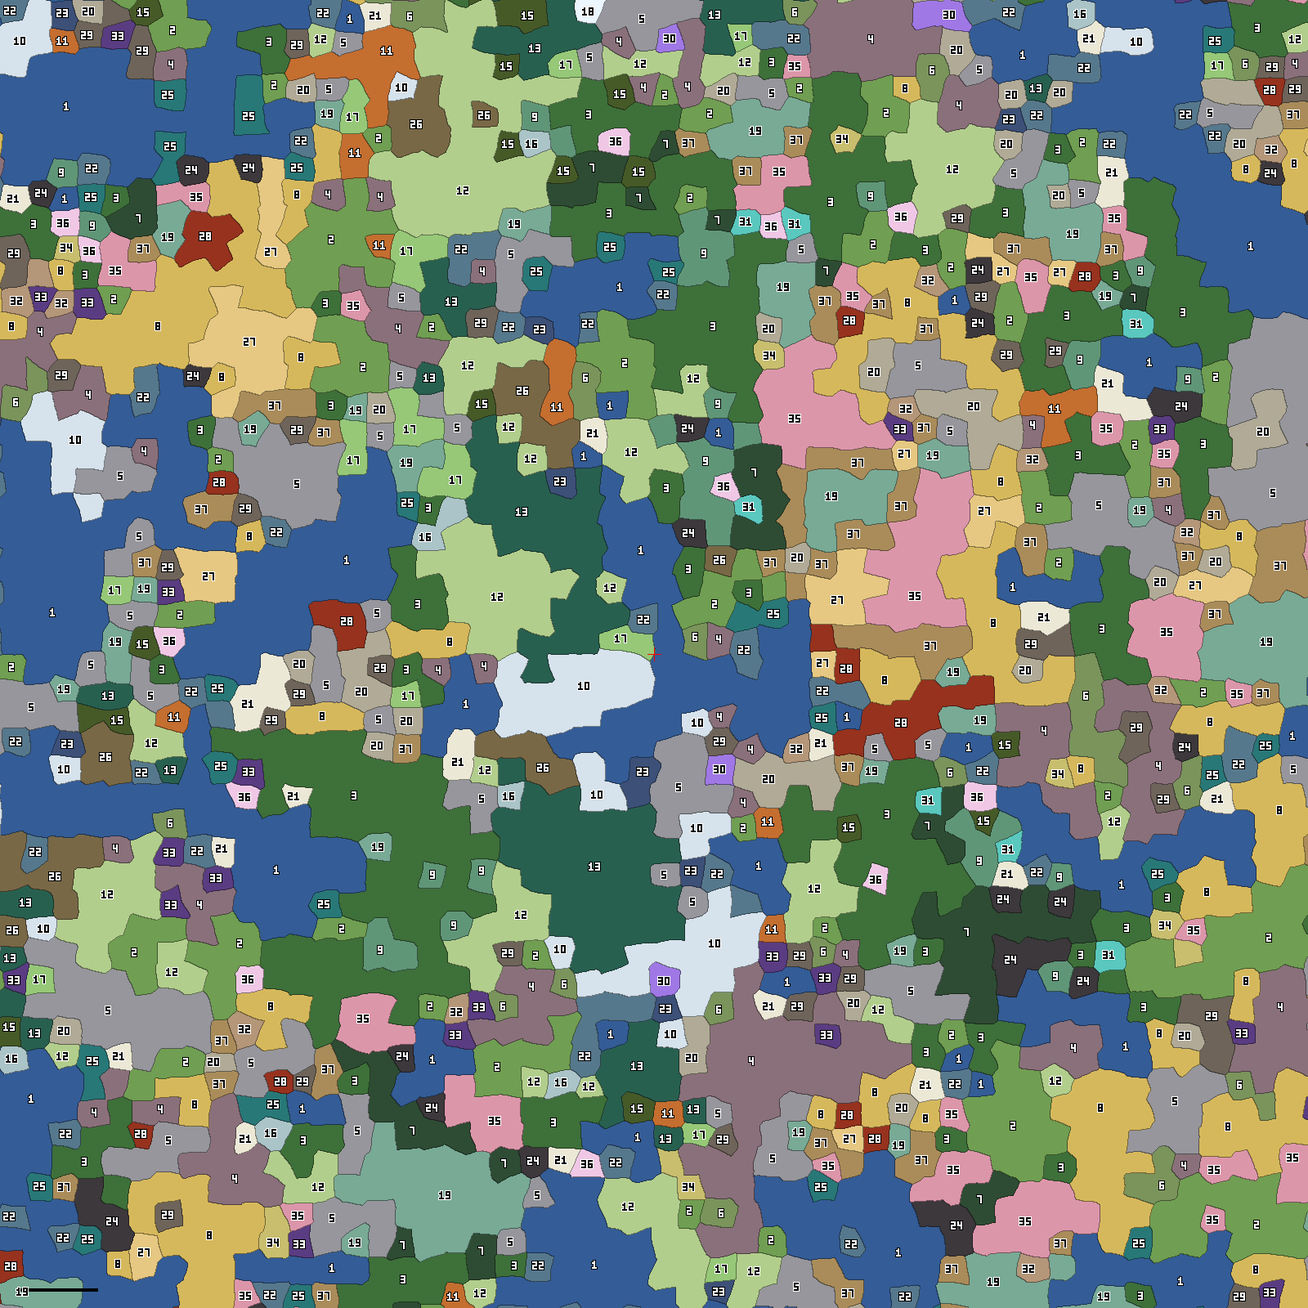
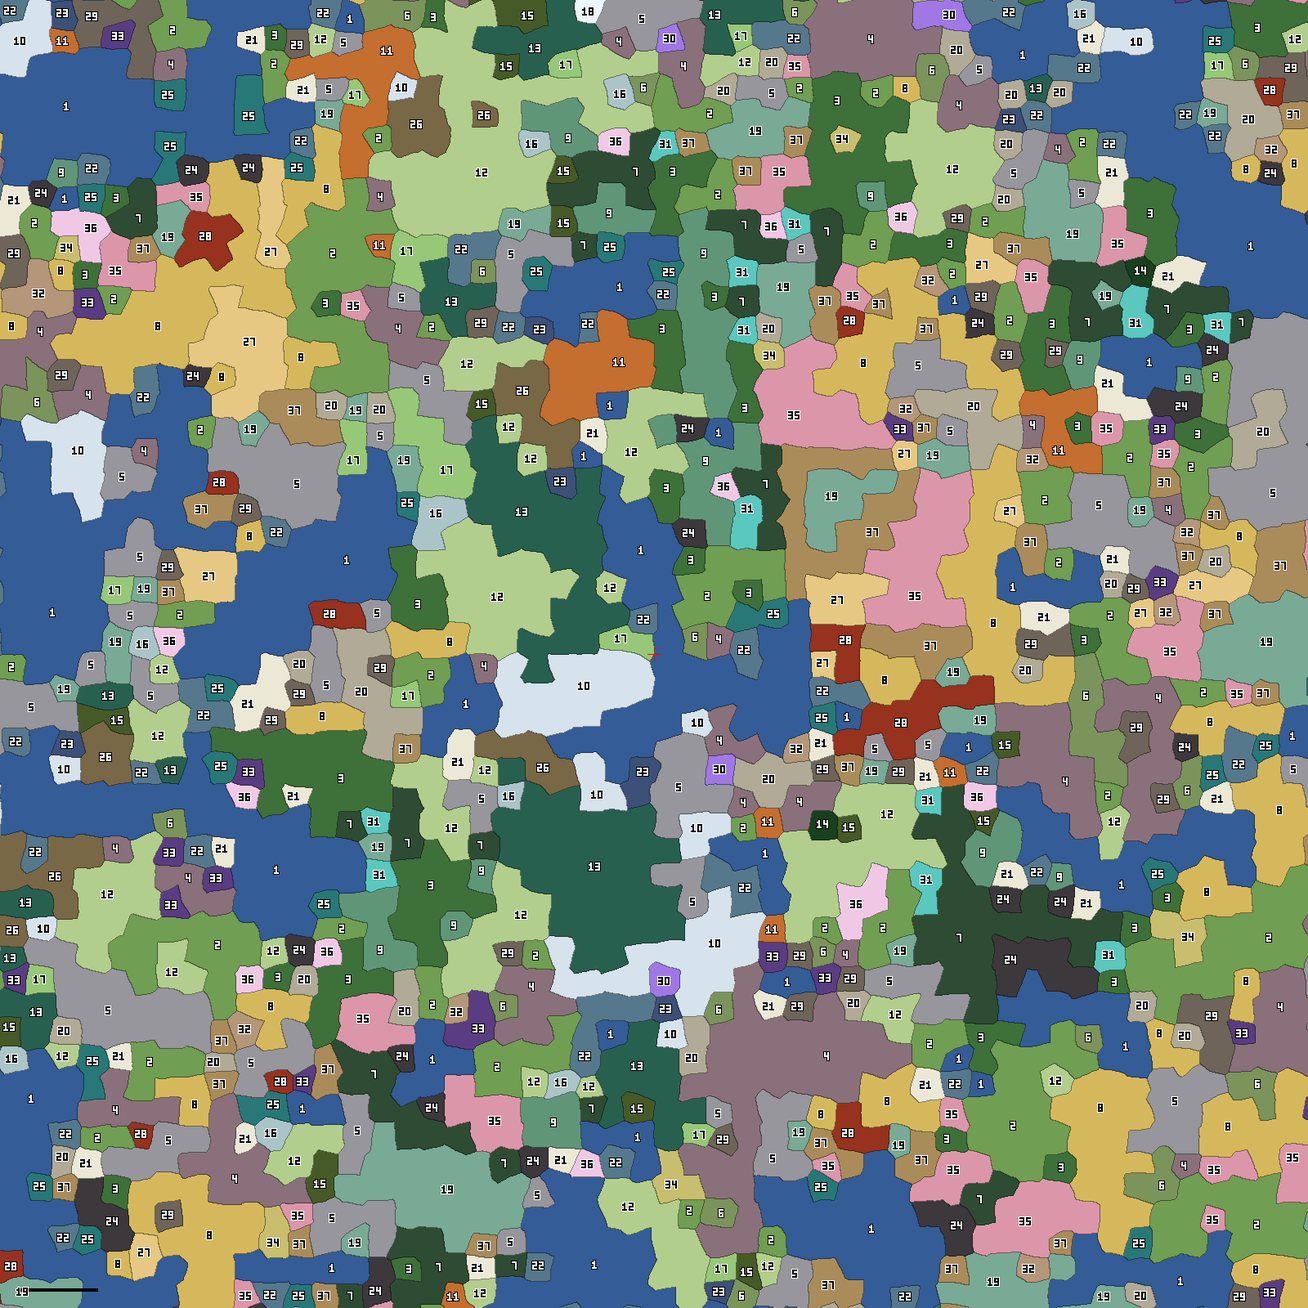
M6a: start new worlds on land, window-independent tests, snapshot update, regenerated land document
Claude-Session: https://claude.ai/code/session_016odTAzJ54PVaB5YPzYTuBq

diff --git a/tests/cases/31-natural-surface.test.js b/tests/cases/31-natural-surface.test.js
@@ -20,7 +20,8 @@ const o={},q={};
   info('mountain columns',mt,'; highest',top,'; with a step of 4 or more',(100*steep/mt).toFixed(2)+'%');
   assert(top>420,'the ranges still rise to high peaks');assert(steep/mt<0.01,'mountain slopes are climbable, with cliffs only in places');}
 // barrows: only on the Barrow Hills, mostly in clusters, facing several ways, in several sizes, some broken open
-{const bs=[];for(let a=-120;a<120;a++)for(let b=-120;b<120;b++){const s=barrowAt(a,b);if(s)bs.push(s);}
+// around the nearest Barrow Hills (an uncommon land since M6a)
+{const bs=[],nb=nearestLand(LAND_I.barrow,0,0,40),ca=Math.floor(nb.X/CS),cb=Math.floor(nb.Z/CS);for(let a=ca-120;a<ca+120;a++)for(let b=cb-120;b<cb+120;b++){const s=barrowAt(a,b);if(s)bs.push(s);}
   const rot=new Set(bs.filter(s=>!s.ring).map(s=>s.rot)),sz=bs.map(s=>s.sz),near=bs.filter(s=>bs.some(t=>t!==s&&Math.hypot(t.X-s.X,t.Z-s.Z)<70)).length;
   let off=0;for(const s of bs){colInfo(s.X,s.Z,o);if(!(o.b===7||(o.bw>0.35&&o.dw>0.35)))off++;}
   info('barrows and rings in 240 x 240 chunks',bs.length,'; rings',bs.filter(s=>s.ring).length,'; facings',rot.size,'; sizes',Math.min(...sz).toFixed(2),'to',Math.max(...sz).toFixed(2),'; broken open',bs.filter(s=>s.broken&&!s.ring).length,'; with a neighbour within 70 blocks',near,'; off the downs',off);
@@ -32,8 +33,8 @@ const o={},q={};
     const p=s.g-ring/8;if(p<-1)hollow++;if(s.kind!=='keep'){prom+=p;pn++;}}
   info('sites',n,'; in a hollow',hollow,'; mean rise of towers and castles over the land around them',(prom/Math.max(1,pn)).toFixed(1),'blocks');
   assert(hollow===0,'no site stands in a hollow');assert(prom/Math.max(1,pn)>2,'towers and castles stand on high ground');}
-// trees gather in groves: the spawn window's trunks by grove field
-{while(genQ.length)processGenQ();const TR=new Set([LOG,BIRCH,SPRUCE,JLOG]);let inG=0,inGc=0,outG=0,outGc=0;
+// trees gather in groves: trunks by grove field in a window on the nearest Green Hills (woods are thick throughout)
+{const ne=nearestLand(LAND_I.green,PL.x+OX,PL.z+OZ,40);regenerateAll(ne.X,ne.Z);while(genQ.length)processGenQ();const TR=new Set([LOG,BIRCH,SPRUCE,JLOG]);let inG=0,inGc=0,outG=0,outGc=0;
   for(let z=0;z<D;z++)for(let x=0;x<W;x++){const g=ground[x+W*z],b=biome[x+W*z];if(![2,3,4,6,10].includes(b))continue;const G=fbm2((x+OX)/70,(z+OZ)/70,2,4801.3),t=TR.has(world[I(x,g+1,z)])?1:0;
     if(G>0.25){inG+=t;inGc++;}else if(G<-0.2){outG+=t;outGc++;}}
   info('trunks per 1000 columns of open land: in groves',(1000*inG/Math.max(1,inGc)).toFixed(1),'; in clearings',(1000*outG/Math.max(1,outGc)).toFixed(1));

diff --git a/tests/cases/05-underground.test.js b/tests/cases/05-underground.test.js
@@ -2,10 +2,11 @@
 // Targets: very little standing water underground, and few cave openings at the surface.
 while(genQ.length)processGenQ();
 let runs=0,changes=0;for(let line=0;line<8;line++){const Z=line*1500-6000;let prev=-1;for(let X=-8000;X<8000;X+=4){const b=colInfo(X,Z,{}).b;if(prev>=0&&b!==prev)changes++;prev=b;}}info("mean biome stretch along a line (blocks)",Math.round(8*16000/(changes+1)));
-let wat=0,air=0,open=0,cols=0;
-for(let z=0;z<D;z++)for(let x=0;x<W;x++){const g=ground[x+W*z];if(g<SEA+1)continue;cols++;let o=false;for(let k=1;k<=5;k++){if(world[I(x,g-k,z)]===AIR){o=true;break;}}if(o)open++;
+let wat=0,air=0,open=0,cols=0,gorge=0;const TGo={};
+// gorge columns (M6a) are open on purpose and counted apart
+for(let z=0;z<D;z++)for(let x=0;x<W;x++){const g=ground[x+W*z];if(g<SEA+1)continue;if(colInfo(x+OX,z+OZ,TGo).rvBot<999){gorge++;continue;}cols++;let o=false;for(let k=1;k<=5;k++){if(world[I(x,g-k,z)]===AIR){o=true;break;}}if(o)open++;
   for(let y=12;y<g-12;y++){const v=world[I(x,y,z)];if(v===WATER)wat++;else if(v===AIR)air++;}}
-info("underground water as share of open cave space",(100*wat/(wat+air)).toFixed(1)+"%","; land columns with a cave opening within 5 blocks of the surface",(100*open/cols).toFixed(2)+"%");
+info("underground water as share of open cave space",(100*wat/(wat+air)).toFixed(1)+"%","; land columns with a cave opening within 5 blocks of the surface",(100*open/cols).toFixed(2)+"%","; gorge columns",gorge);
 
 // Standing water lies in sound basins (D-024): water or solid under and beside every block of it, and each solid holding it rests on something
 const WD=W*D,held=j=>world[j]===WATER||SOLID[world[j]],rests=j=>held(j-WD);

diff --git a/tests/cases/33-survival-systems.test.js b/tests/cases/33-survival-systems.test.js
@@ -73,7 +73,7 @@ const cooked=[334,335,336,337].every(id=>RECIPES.some(r=>r[0]===id&&r[3]==='f')&
 assert(cooked&&FOOD[335]===9,'four dishes cook at a furnace and feed more than raw food (pottage 9)');
 // ---- foraging: wild bilberries, mushrooms and turnips in the generated world
 const cnt={[BERRYB]:0,[MUSHB]:0,[WTURN]:0},by={};let cols=0;
-for(const [X,Z] of [[0,0],[1600,-900],[-1400,1300]]){regenerateAll(X,Z);while(genQ.length)processGenQ();
+for(const k of ['elder','moors','green']){const c=nearestLand(LAND_I[k],0,0,40);regenerateAll(c.X,c.Z); // windows on the woods, the moors and open countrywhile(genQ.length)processGenQ();
   for(let z=0;z<D;z++)for(let x=0;x<W;x++){const g=ground[x+W*z],id=world[I(x,g+1,z)];cols++;if(cnt[id]!==undefined){cnt[id]++;const b=BIOMES[biome[x+W*z]];by[b]=(by[b]||0)+1;}}}
 info('forage in',cols,'columns: bilberry bushes',cnt[BERRYB],'brown mushrooms',cnt[MUSHB],'wild turnips',cnt[WTURN],'; by land',JSON.stringify(by));
 assert(cnt[BERRYB]>0&&cnt[MUSHB]>0&&cnt[WTURN]>0,'bilberries, mushrooms and wild turnips grow in the world');

diff --git a/docs/LANDS.md b/docs/LANDS.md
@@ -33,48 +33,48 @@ Share: of all land on the map (for sea lands, of the whole map). Regions: lands 
 | # | Land | Family | Tier | Warmth | Damp | Relief | Shown as until built | Signature landmark | Signature feature | Share | Regions (median side) |
 |---|---|---|---|---|---|---|---|---|---|---|---|
 | 1 | The Western Sea | Old lands | common | cold to hot | sea | open sea | built | a wreck on the shoals | sea stacks | 17.7% | 24 (641) |
-| 2 | Green Hills | Old lands | common | cool to warm | middling | low, hills | built | an earthwork hill fort | a lone great oak on a knoll | 7.4% | 38 (447) |
-| 3 | Elder Wood | Old lands | common | temperate to warm | middling to wet | low, hills | built | a moss-grown woodland shrine | a hollow elder you can walk into | 13.3% | 43 (463) |
-| 4 | Heath Moors | Old lands | common | cool to temperate | dry to middling | low, hills | built | a watch cairn on a tor | granite tors | 7.4% | 31 (345) |
-| 5 | High Mountains | Old lands | common | cold to warm | dry to wet | high | built | a gatehouse in a high pass | a high tarn under the peaks | 9.0% | 43 (443) |
-| 6 | Barrow Hills | Old lands | uncommon | cool to temperate | dry to middling | low, hills | built | a great chambered barrow | long rows of standing stones | 1.6% | 16 (373) |
-| 7 | Shadowed Forest | Old lands | uncommon | temperate to hot | wet | low, hills | built | a temple sunk among the roots | a fallen giant spanning a hollow | 2.6% | 15 (435) |
-| 8 | Golden Steppe (was Windswept Plains) | Dry and fiery (M6e) | common | temperate to hot | dry | low, hills | Windswept Plains | a ring of horse stones | a lone rock outcrop over the grass | 8.8% | 27 (542) |
-| 9 | Willow Vales (was Fens) | Forests (M6b) | common | temperate to warm | wet | low | Fens | a stilt house over the water | willow-ringed pools with islets | 1.8% | 18 (343) |
-| 10 | Frozen Tundra (was Northern Fells) | Highlands and cold (M6c) | common | cold | dry to middling | low, hills | Northern Fells | a frozen longhouse | frost mounds and ice wedges | 2.8% | 12 (431) |
-| 11 | Autumn Woods | Forests (M6b) | common | cool to temperate | middling | low, hills | Elder Wood | a woodcutters' lodge | a red-leaf glade around a still pond | 1.2% | 10 (351) |
-| 12 | Birch Glades | Forests (M6b) | common | cool to temperate | middling to wet | low, hills | Elder Wood | a birch-bark shrine | a ring of white birches round a clearing | 7.6% | 24 (524) |
-| 13 | Pine Highlands | Forests (M6b) | common | cold to cool | middling to wet | hills, high | Northern Fells | a timber watch post | a lookout rock above the pines | 4.8% | 10 (437) |
-| 14 | Ancient Giant Wood | Forests (M6b) | rare | temperate to warm | wet | low | Elder Wood | a platform ruin high in a giant tree | a giant tree over forty blocks tall | 0.0% | 0 (0) |
-| 15 | Yew Wood | Forests (M6b) | uncommon | cool to temperate | middling to wet | low, hills | Shadowed Forest | a ruined archers' hall | an ancient hollow yew | 0.8% | 12 (324) |
-| 16 | Silverwood | Forests (M6b) | uncommon | cool to temperate | middling to wet | low, hills | Elder Wood | a moon-gate arch | a silver-leaf grove round a spring | 0.4% | 5 (331) |
-| 17 | Alpine Meadows | Highlands and cold (M6c) | uncommon | cold to temperate | middling to wet | high | High Mountains | a shepherd's hut on the high pasture | a meadow tarn under a peak | 1.2% | 14 (353) |
+| 2 | Green Hills | Old lands | common | cool to warm | middling | low, hills | built | an earthwork hill fort | a lone great oak on a knoll | 9.1% | 41 (465) |
+| 3 | Elder Wood | Old lands | common | temperate to warm | middling to wet | low | built | a moss-grown woodland shrine | a hollow elder you can walk into | 5.6% | 32 (356) |
+| 4 | Heath Moors | Old lands | common | cool to temperate | dry to middling | low, hills | built | a watch cairn on a tor | granite tors | 7.2% | 26 (525) |
+| 5 | High Mountains | Old lands | common | cold to warm | dry to wet | high | built | a gatehouse in a high pass | a high tarn under the peaks | 8.8% | 38 (530) |
+| 6 | Barrow Hills | Old lands | uncommon | cool to temperate | dry to middling | low, hills | built | a great chambered barrow | long rows of standing stones | 1.7% | 16 (354) |
+| 7 | Shadowed Forest | Old lands | uncommon | temperate to hot | wet | low, hills | built | a temple sunk among the roots | a fallen giant spanning a hollow | 4.2% | 19 (549) |
+| 8 | Golden Steppe (was Windswept Plains) | Dry and fiery (M6e) | common | temperate to hot | dry | low, hills | Windswept Plains | a ring of horse stones | a lone rock outcrop over the grass | 9.0% | 24 (559) |
+| 9 | Willow Vales (was Fens) | Forests (M6b) | common | temperate to warm | wet | low | Fens | a stilt house over the water | willow-ringed pools with islets | 2.7% | 14 (640) |
+| 10 | Frozen Tundra (was Northern Fells) | Highlands and cold (M6c) | common | cold | dry to middling | low, hills | Northern Fells | a frozen longhouse | frost mounds and ice wedges | 2.8% | 11 (431) |
+| 11 | Autumn Woods | Forests (M6b) | common | cool to temperate | middling | low, hills | Elder Wood | a woodcutters' lodge | a red-leaf glade around a still pond | 1.7% | 8 (340) |
+| 12 | Birch Glades | Forests (M6b) | common | cool to temperate | middling to wet | low, hills | Elder Wood | a birch-bark shrine | a ring of white birches round a clearing | 8.9% | 26 (479) |
+| 13 | Pine Highlands | Forests (M6b) | common | cold to cool | middling to wet | hills, high | Northern Fells | a timber watch post | a lookout rock above the pines | 4.9% | 7 (693) |
+| 14 | Ancient Giant Wood | Forests (M6b) | rare | temperate to warm | wet | low | Elder Wood | a platform ruin high in a giant tree | a giant tree over forty blocks tall | 0.1% | 2 (340) |
+| 15 | Yew Wood | Forests (M6b) | uncommon | cool to temperate | middling to wet | low, hills | Shadowed Forest | a ruined archers' hall | an ancient hollow yew | 0.8% | 11 (322) |
+| 16 | Silverwood | Forests (M6b) | uncommon | cool to temperate | middling to wet | low, hills | Elder Wood | a moon-gate arch | a silver-leaf grove round a spring | 0.6% | 7 (345) |
+| 17 | Alpine Meadows | Highlands and cold (M6c) | uncommon | cold to temperate | middling to wet | high | High Mountains | a shepherd's hut on the high pasture | a meadow tarn under a peak | 1.2% | 13 (336) |
 | 18 | Glacier Fields | Highlands and cold (M6c) | uncommon | cold | dry to wet | high | High Mountains | a tower bound in the ice | crevasses and ice caves | 0.0% | 0 (0) |
-| 19 | Cloud Forest Heights | Highlands and cold (M6c) | uncommon | temperate to hot | middling to wet | high | High Mountains | a mist shrine on a crag | mossy falls into the cloud | 5.0% | 25 (332) |
-| 20 | Karst Crags | Highlands and cold (M6c) | uncommon | cool to warm | dry to middling | hills, high | Heath Moors | a hermitage in a cliff | a great sinkhole into the caves | 2.7% | 28 (340) |
-| 21 | Chalk Cliffs | Coasts and waters (M6d) | uncommon | cool to warm | dry to wet | low, hills, beside the sea | Green Hills | a beacon tower on the cliff top | a chalk sea arch | 1.4% | 18 (338) |
-| 22 | Rocky Isles | Coasts and waters (M6d) | uncommon | cold to hot | sea | sea by the coast | The Western Sea | a ruined chapel on an isle | sea arches and stacks | 2.2% | 33 (341) |
-| 23 | Fjords | Coasts and waters (M6d) | uncommon | cold to cool | dry to wet | hills, high, beside the sea | High Mountains | a boathouse at a fjord's head | a fall from the fjord wall | 0.5% | 9 (313) |
-| 24 | Black Sand Shores | Coasts and waters (M6d) | uncommon | temperate to hot | dry to wet | low, beside the sea | Windswept Plains | a black-stone harbour wall | basalt columns on the shore | 1.5% | 20 (330) |
+| 19 | Cloud Forest Heights | Highlands and cold (M6c) | uncommon | temperate to hot | middling to wet | high | High Mountains | a mist shrine on a crag | mossy falls into the cloud | 4.9% | 26 (332) |
+| 20 | Karst Crags | Highlands and cold (M6c) | uncommon | cool to warm | dry to middling | hills, high | Heath Moors | a hermitage in a cliff | a great sinkhole into the caves | 2.8% | 28 (341) |
+| 21 | Chalk Cliffs | Coasts and waters (M6d) | uncommon | cool to warm | dry to wet | low, hills, beside the sea | Green Hills | a beacon tower on the cliff top | a chalk sea arch | 1.8% | 25 (326) |
+| 22 | Rocky Isles | Coasts and waters (M6d) | uncommon | cold to hot | sea | sea by the coast | The Western Sea | a ruined chapel on an isle | sea arches and stacks | 2.2% | 32 (347) |
+| 23 | Fjords | Coasts and waters (M6d) | uncommon | cold to cool | dry to wet | hills, high, beside the sea | High Mountains | a boathouse at a fjord's head | a fall from the fjord wall | 0.4% | 8 (318) |
+| 24 | Black Sand Shores | Coasts and waters (M6d) | uncommon | temperate to hot | dry to wet | low, beside the sea | Windswept Plains | a black-stone harbour wall | basalt columns on the shore | 1.7% | 20 (330) |
 | 25 | Kelp Shallows | Coasts and waters (M6d) | uncommon | temperate to hot | sea | sea by the coast | The Western Sea | a sunken causeway | kelp forests | 1.3% | 24 (336) |
-| 26 | Raised Bogs | Coasts and waters (M6d) | uncommon | cold to temperate | wet | low | Fens | an old plank trackway across the bog | a domed bog with pools and cotton grass | 1.6% | 6 (707) |
-| 27 | Southern Drylands | Dry and fiery (M6e) | common | hot | dry | low, hills | Windswept Plains | a temple half buried in sand | a dry wadi with an old well | 2.0% | 12 (555) |
-| 28 | Volcanic Wastes | Dry and fiery (M6e) | uncommon | warm to hot | dry | hills, high | Heath Moors | a ruined fire shrine | a smoking cone with a lava lake held in rock | 1.3% | 12 (328) |
-| 29 | Blighted Lands | Dry and fiery (M6e) | uncommon | cool to warm | dry to middling | low, hills | Heath Moors | a dead lord's ruined hall | grey dead trees and ash pools | 1.9% | 28 (315) |
+| 26 | Raised Bogs | Coasts and waters (M6d) | uncommon | cold to temperate | wet | low | Fens | an old plank trackway across the bog | a domed bog with pools and cotton grass | 1.5% | 5 (707) |
+| 27 | Southern Drylands | Dry and fiery (M6e) | common | hot | dry | low, hills | Windswept Plains | a temple half buried in sand | a dry wadi with an old well | 1.8% | 11 (525) |
+| 28 | Volcanic Wastes | Dry and fiery (M6e) | uncommon | warm to hot | dry | hills, high | Heath Moors | a ruined fire shrine | a smoking cone with a lava lake held in rock | 1.3% | 10 (451) |
+| 29 | Blighted Lands | Dry and fiery (M6e) | uncommon | cool to warm | dry to middling | low, hills | Heath Moors | a dead lord's ruined hall | grey dead trees and ash pools | 2.1% | 25 (311) |
 | 30 | Crystal Barrens | Strange lands (M6f) | rare | cold to cool | dry | hills, high | Northern Fells | a crystal cutters' ruin | crystal spires | 0.3% | 3 (350) |
-| 31 | Glowcap Hollows | Strange lands (M6f) | rare | temperate to warm | wet | low, hills | Shadowed Forest | a mushroom dwelling | giant glowing mushrooms in a hollow | 0.4% | 7 (309) |
-| 32 | Petrified Forest | Strange lands (M6f) | rare | warm to hot | dry | low, hills | Windswept Plains | a waystation turned to stone | trees of stone | 0.7% | 12 (315) |
-| 33 | Starfall Craters | Strange lands (M6f) | rare | cool to warm | dry to middling | low, hills | Heath Moors | a ruined star tower | a crater round a starmetal heart | 0.9% | 18 (315) |
-| 34 | Overgrown Farmland | Old lands of men (M6g) | uncommon | cool to warm | middling | low | Green Hills | an abandoned manor farm | wild crops in old furrows | 0.5% | 7 (336) |
-| 35 | Wild Orchards | Old lands of men (M6g) | uncommon | temperate to hot | middling | low | Green Hills | an orchard keeper's cottage | rows of gnarled fruit trees | 4.6% | 24 (429) |
-| 36 | Flower Meadows | Old lands of men (M6g) | uncommon | temperate to warm | middling to wet | low | Green Hills | a shrine wreathed in flowers | bands of wildflowers | 0.6% | 12 (324) |
-| 37 | Old Terraces | Old lands of men (M6g) | uncommon | temperate to hot | dry to middling | hills | Green Hills | a terraced village ruin | stone-walled terraces down a hillside | 3.4% | 36 (335) |
+| 31 | Glowcap Hollows | Strange lands (M6f) | rare | temperate to warm | wet | low, hills | Shadowed Forest | a mushroom dwelling | giant glowing mushrooms in a hollow | 0.8% | 12 (342) |
+| 32 | Petrified Forest | Strange lands (M6f) | rare | warm to hot | dry | low, hills | Windswept Plains | a waystation turned to stone | trees of stone | 0.7% | 11 (319) |
+| 33 | Starfall Craters | Strange lands (M6f) | rare | cool to warm | dry to middling | low, hills | Heath Moors | a ruined star tower | a crater round a starmetal heart | 0.9% | 15 (323) |
+| 34 | Overgrown Farmland | Old lands of men (M6g) | uncommon | cool to warm | middling | low | Green Hills | an abandoned manor farm | wild crops in old furrows | 0.5% | 6 (438) |
+| 35 | Wild Orchards | Old lands of men (M6g) | uncommon | temperate to hot | middling | low | Green Hills | an orchard keeper's cottage | rows of gnarled fruit trees | 4.5% | 23 (450) |
+| 36 | Flower Meadows | Old lands of men (M6g) | uncommon | temperate to warm | middling to wet | low | Green Hills | a shrine wreathed in flowers | bands of wildflowers | 0.9% | 12 (331) |
+| 37 | Old Terraces | Old lands of men (M6g) | uncommon | temperate to hot | dry to middling | hills | Green Hills | a terraced village ruin | stone-walled terraces down a hillside | 3.6% | 32 (330) |
 
 Every land is shown somewhere within 25600 blocks of the middle on this seed (checked by `36-lands`). Lands with no region inside the map above are further out.
 
 ## Sizes (Q118)
 
-No land may be smaller than 215 x 215 blocks or narrower than 115. On this map the smallest land wholly inside it is 10 blocks on a side (as a square of the same area), the median 341. Common lands: median 439; uncommon 336; rare 315. The test `36-lands` checks width: every part of a land lies inside a 115-block circle of that land except the tips of its corners, and a few lands meet another stretch of the same kind at a narrow pinch (counted in the test's output).
+No land may be smaller than 215 x 215 blocks or narrower than 115. On this map the smallest land wholly inside it is 263 blocks on a side (as a square of the same area), the median 345. Common lands: median 479; uncommon 336; rare 323. Corner tips where four cells meet, under 30 x 30 blocks and lost in the border blend, are not counted as lands (9 on this map). The test `36-lands` checks width: every part of a land lies inside a 115-block circle of that land except the tips of its corners, and a few lands meet another stretch of the same kind at a narrow pinch (counted in the test's output).
 
 ## The transition map (Q108)
 

diff --git a/docs/DECISIONS.md b/docs/DECISIONS.md
@@ -262,6 +262,7 @@ Constrains: every new land names its allowed neighbours, its tier, its signature
 - **Gorges (Q137):** the hairline ravines of M2b (1 to 3 wide, up to 66 deep) are gone. Gorges follow a slower line where the land allows them (`gorge` weight by land), with a floor at least 7 wide, ledges of 5, a rim 16 to 40 across, up to about 60 deep, square ends, and none by water or the sea; about a third as many as the old ravines.
 - **Names (Q131):** each stretch has a name in its people's style, shown on arrival and on the world map; stretches are not places.
 - **The land tour (Q136):** creative, in the pause menu: every land, planned ones marked, takes the player to the heart of its nearest stretch.
-- **Saves:** generation changed: `SAVE_KEY` is `fantasy-blockcraft-save-v10`, world data version 10.
+- **Start:** a new world's window is centred on the nearest cell of a built, open lowland land (`landSpawn`), within about six cells of X 0, Z 0, since X 0, Z 0 may now be sea.
+- **Saves:** generation changed: `SAVE_KEY` is `fantasy-blockcraft-save-v10`, world data version 10. On start the game removes every older `fantasy-blockcraft-save-v*` key and its worlds' data.
 - **For approval (Q134):** `docs/LANDS.md` (generated by `npm run lands`) holds the list, the transition map and the layout picture. Open question for the owner: keep both Elder Wood and Ancient Giant Wood, or rework Elder Wood into it.
 Constrains: a new land goes into `LANDS` with all its fields and the doc is regenerated; its family PR changes its look, never its place in the layout; generation keeps reading lands through `landsAt`.

diff --git a/CHANGELOG.md b/CHANGELOG.md
@@ -13,6 +13,8 @@ Old saves do not load: the world is generated anew, and the save key is now `fan
 - **A new map of lands.** The world is laid out from a registry of 37 lands in seven families, on a transition map that keeps unlikely neighbours apart (no winter land beside a desert). Common lands now stretch over several hundred blocks, and no land is smaller than 215 x 215 blocks. The old lands keep their looks; lands still to be built (forests in M6b, and so on) show as an old land until their family arrives, so their places will not move. See `docs/LANDS.md`.
 - **Names for every stretch of land,** in the style of a people ("Elder Wood of Lirwen", "The Sea of Randbert"), shown when you arrive and written faintly on the world map.
 - **Gorges in place of the cracks.** The hairline ravines (1 to 3 blocks wide, up to 66 deep) are gone. Gorges are about a third as many, at least 7 blocks wide at the floor, step back in ledges of 5 to a rim 16 to 40 across, and run up to about 60 deep; the deepest still reach the caves. None cut beside water or the sea.
+- **New worlds start on open land** of an old land near the middle of the world (a cell of Green Hills, Elder Wood, the moors or the like), never at sea.
+- **Retired saves are cleared** from browser storage when the game starts (worlds from save keys before v10).
 - **Creative land tour:** a list of every land in the pause menu (planned ones marked); Go takes you to the heart of the nearest stretch.
 
 ### Tooling
